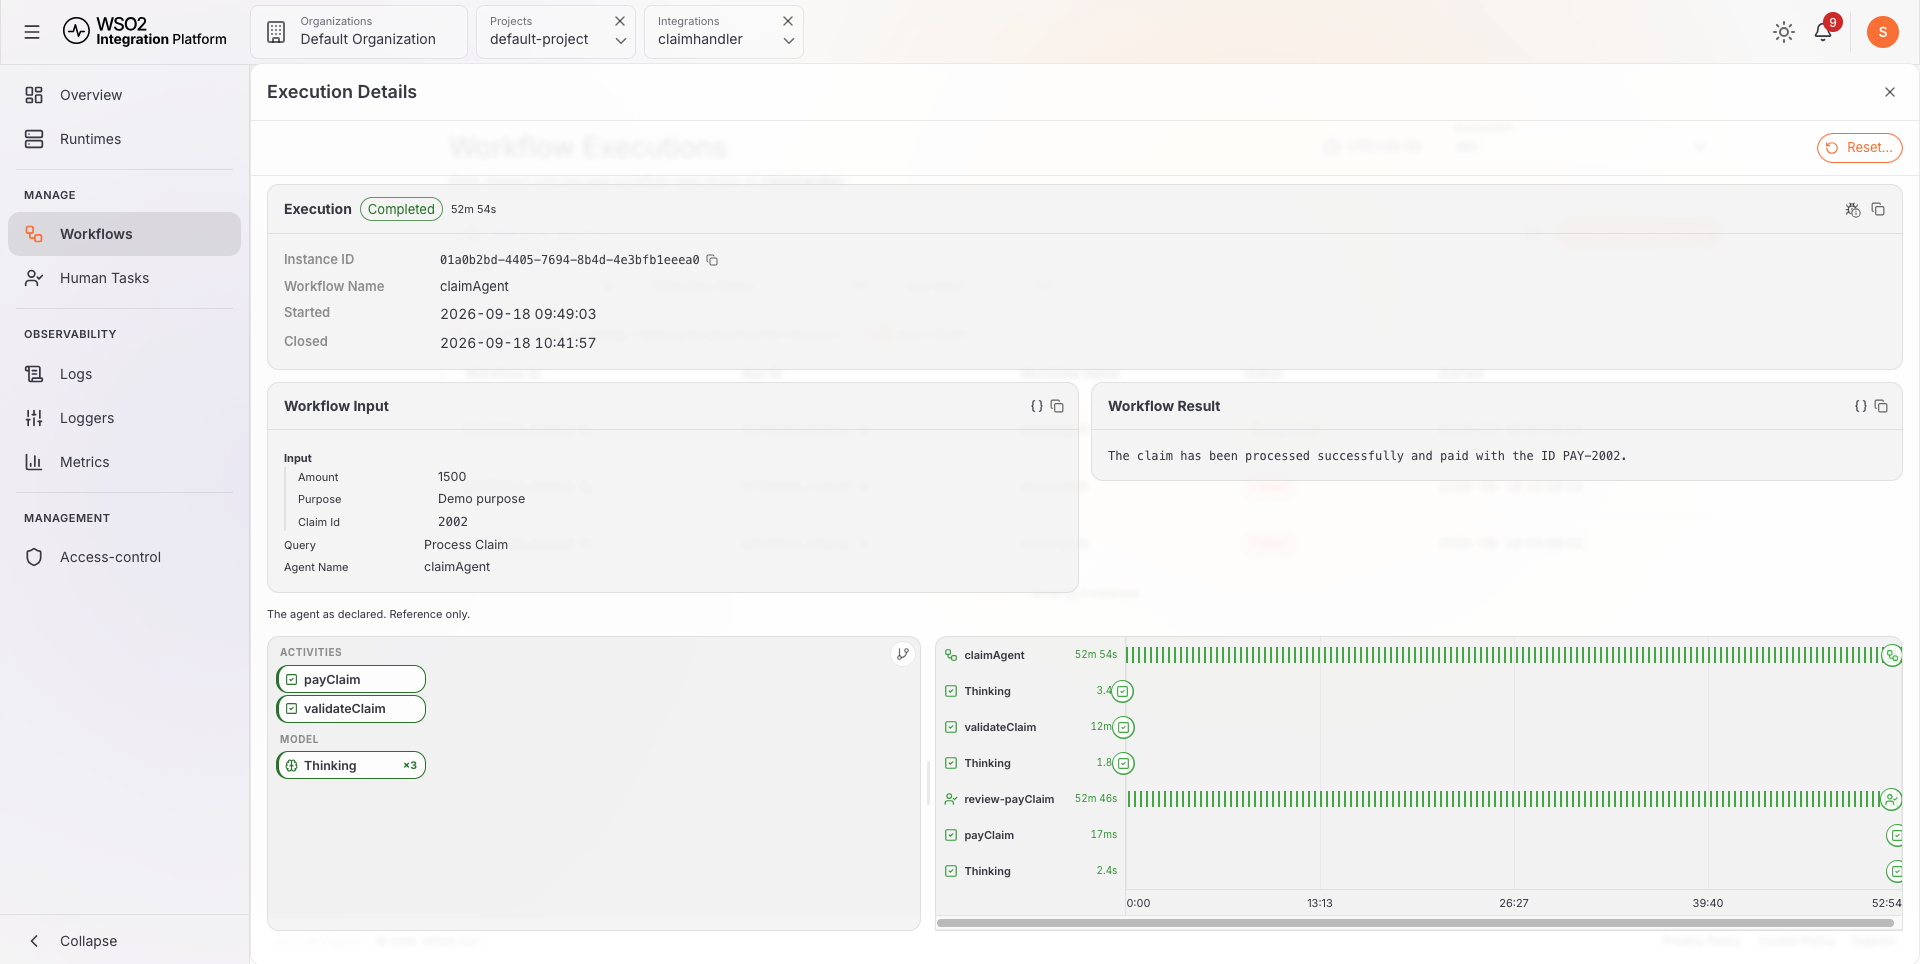
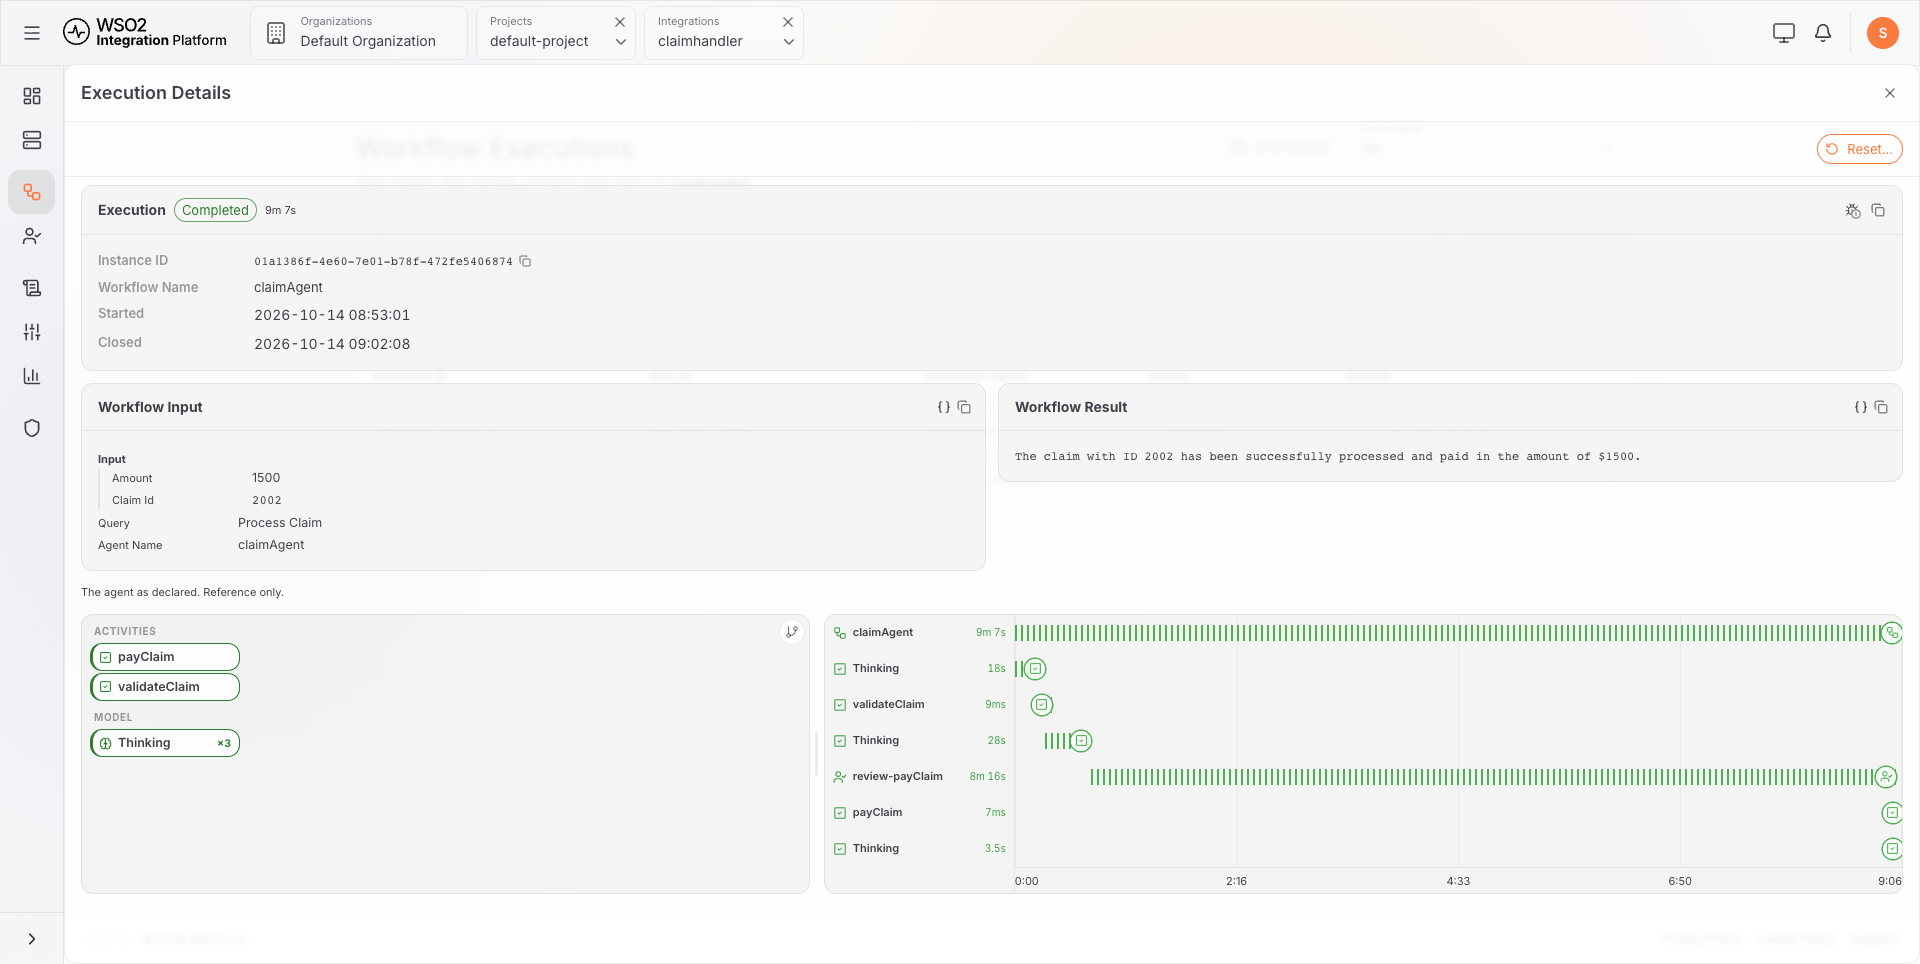
Re-capture the claim quickstart images on Integrator 6.0.0
Ten images re-recorded on the pre-RC pack (extension 6.0.0, workflow 1.0.0, ICP 2.1.0) from a full run of the page.
The text now matches that run: Configure Now appears only when Config.toml lacks the provider details, the Try It
template holds a {?} for claimId and a 0 for amount, and the sample summary and timing follow the recorded run.

diff --git a/en/docs/get-started/quickstarts/build-claim-handling-agent.md b/en/docs/get-started/quickstarts/build-claim-handling-agent.md
@@ -370,7 +370,7 @@ Leave the containers running for the rest of this guide.
 
 1. Select **Run** in the integration header to start the integration.
 
-   The first run asks: "This integration uses the WSO2 default AI provider, but it isn't configured yet. Configure it now?" Click **Configure Now**. It writes the provider's access details to `Config.toml` using your Copilot sign-in, and the run continues. Later runs refresh them on their own.
+   If the integration does not yet hold access details for the default provider, the first run asks: "This integration uses the WSO2 default AI provider, but it isn't configured yet. Configure it now?" Click **Configure Now**. It writes the provider's access details to `Config.toml` using your Copilot sign-in, and the run continues. Later runs refresh them on their own.
 2. Watch the terminal. After `Compiling source` and `Running executable`, the runtime bridge connects to the ICP server started in Step 5:
 
    ```text
@@ -398,7 +398,7 @@ The generated request already carries the method, URL, and content type, along w
     }}
 />
 
-Replace the `{?}` placeholders with a real claim, then click the run button in the request cell's left gutter to send it.
+Fill in a real claim: replace the `{?}` placeholder for `claimId` and the `0` for `amount`, then click the run button in the request cell's left gutter to send it.
 
 ```json
 {
@@ -509,7 +509,7 @@ The console reports **Activity proceeded**, and on the next refresh the list rea
 Open the run again from **Workflows**. `payClaim` has now completed. The agent takes one closing turn, and the execution reads **Completed**, with a **Closed** time and a **Workflow Result** holding the agent's own summary of the claim. The model words it differently on each run, for example:
 
 ```text
-The claim with ID "2002" for the amount of $1500.00 has been successfully processed and paid.
+The claim with ID 2002 has been successfully processed and paid in the amount of $1500.
 ```
 
 <ThemedImage
@@ -520,7 +520,7 @@ The claim with ID "2002" for the amount of $1500.00 has been successfully proces
     }}
 />
 
-The timeline is green end to end, and it shows where the time went: the thinking turns and `validateClaim` took seconds, `payClaim` ran in milliseconds once released, and `review-payClaim` accounts for almost the entire run. The claim was not being worked on for 52 of its 53 minutes. It was waiting for a person, and it lost nothing by waiting.
+The timeline is green end to end, and it shows where the time went: the thinking turns and `validateClaim` took seconds, `payClaim` ran in milliseconds once released, and `review-payClaim` accounts for almost the entire run. For most of the run, nobody was working on the claim. It was waiting for a person, and it lost nothing by waiting.
 
 ## Next steps
 
